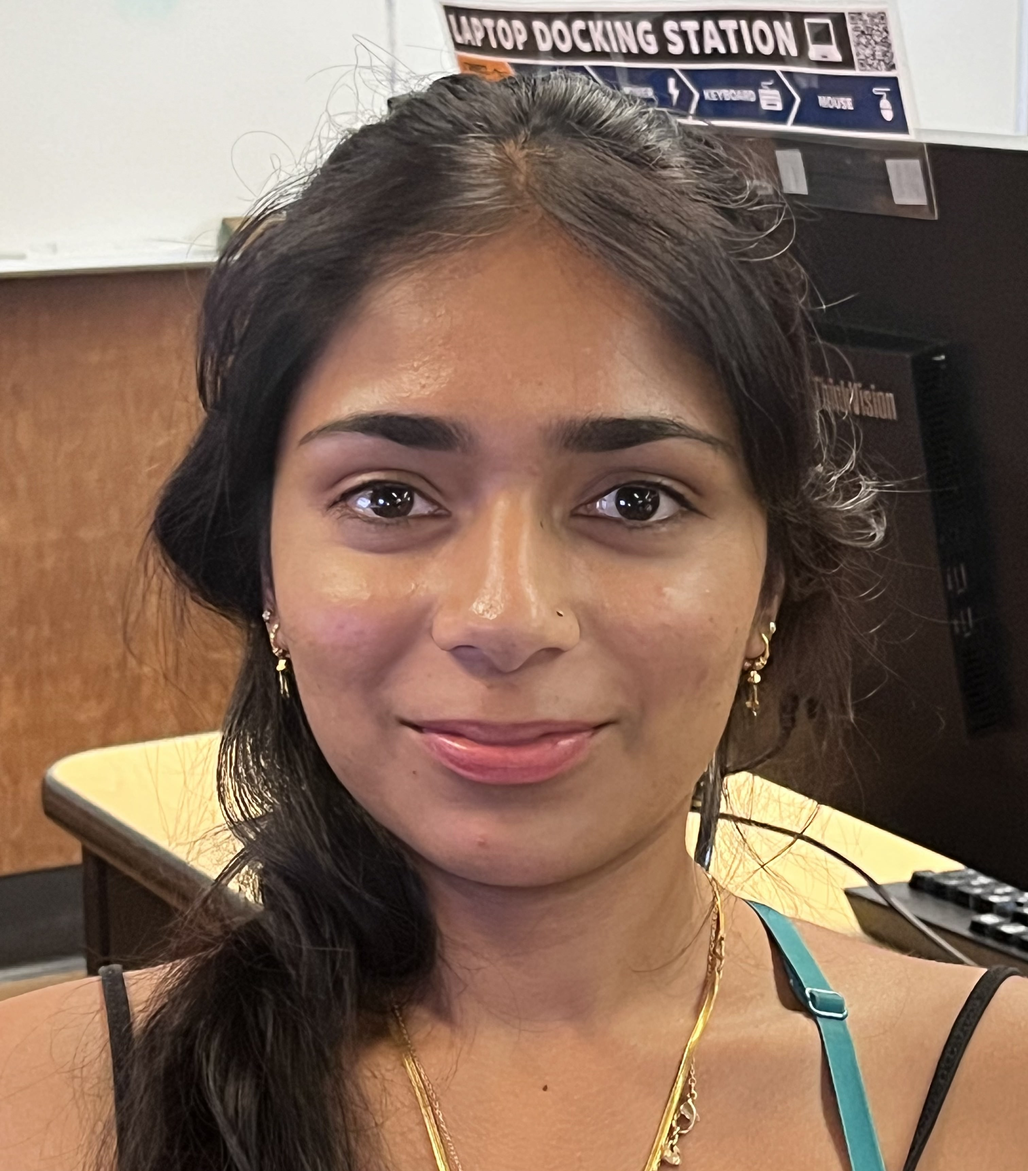
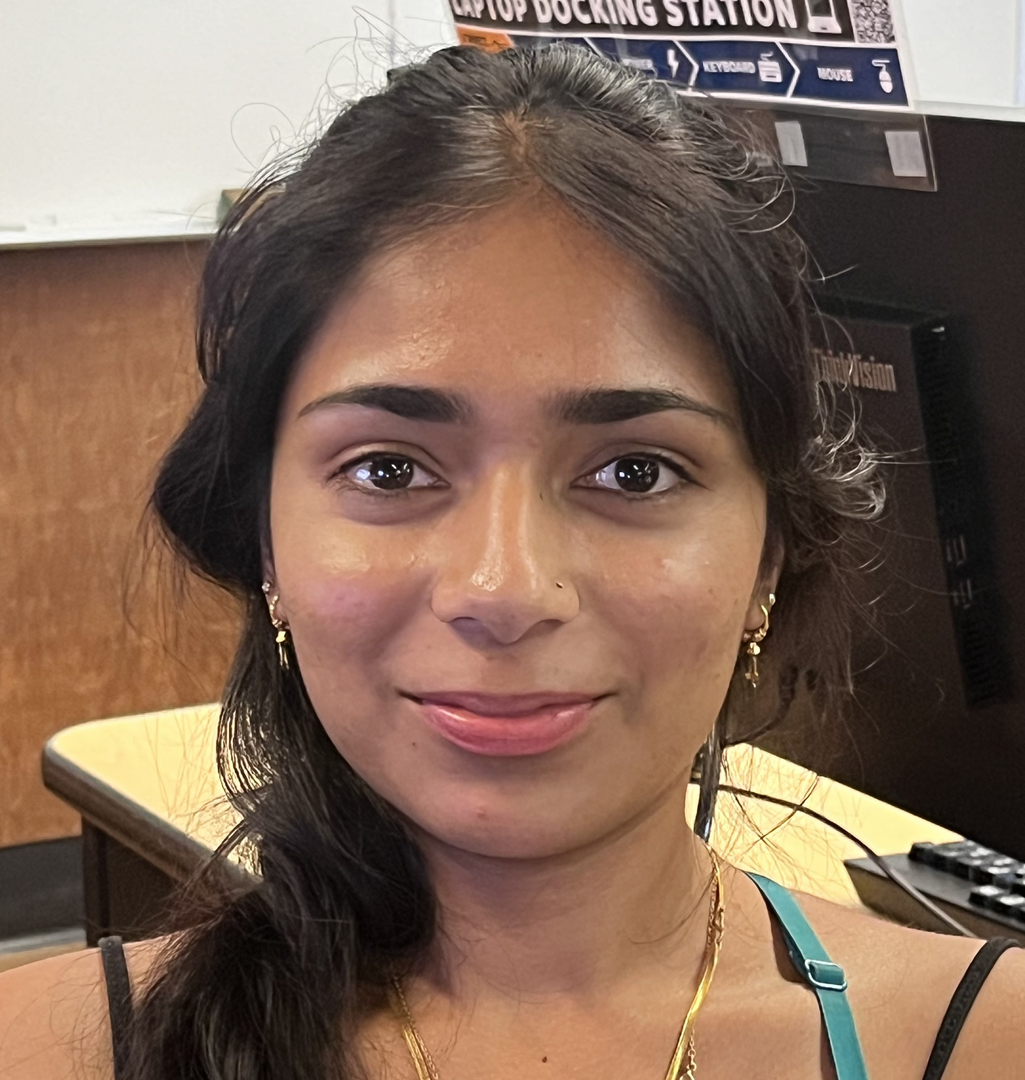
updated image size

diff --git a/1/index.html b/1/index.html
@@ -39,7 +39,6 @@
     </div>
     <br>
     <h2>Architectural Perspective Compression</h2>
-
     <div style="display: flex; gap: 20px;">
         <div>
             <img src="../1/images/IMG_1819.jpg" alt="With Zoom">
@@ -50,7 +49,7 @@
             <p>Without Zoom</p>
         </div>
     </div>
-
+    <br>
     <h2>The Dolly Zoom</h2>
 
     <div style="display: flex; gap: 20px;">
